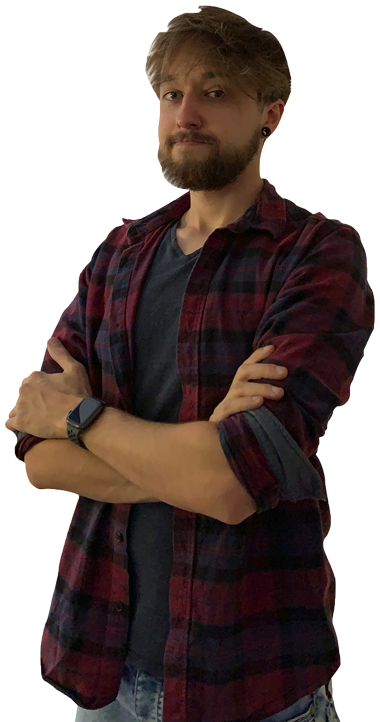
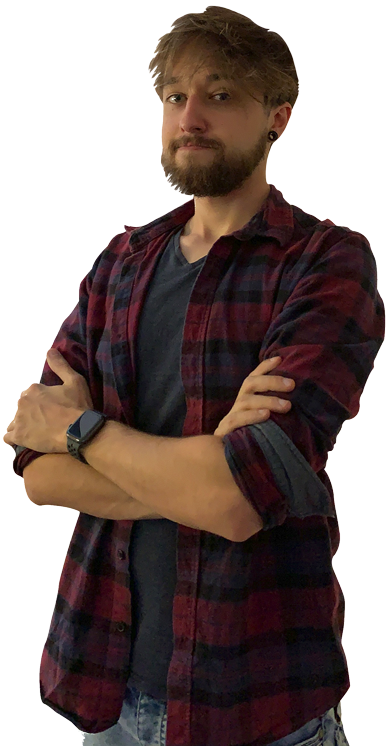
[TASK] deal with it

diff --git a/html/assets/scss/main.min.css b/html/assets/scss/main.min.css
@@ -1,3 +1,3 @@
-button{border:0;outline:0;cursor:pointer}button:focus{border:0;outline:0}button:hover *{cursor:url("../images/icons/pointer-clickable.png"),auto}.button-primary{background:#2CE59E;box-shadow:0 6px 30px -10px #2CE59E;padding:8px 20px;border-radius:3px;color:#fff;transition:ease-in-out .2s all}.button-primary:hover{color:#fff;background:#397B82;box-shadow:0 3px 5px -5px #397B82}.scroll-top-container{justify-content:center;position:relative;transform:translateY(15px)}.scroll-top-container span{border-radius:50%;border:10px solid white}.scroll-top-container span .scroll-top{border-radius:50%;display:inline-block;background:#fff;text-align:center;transition:box-shadow ease-in-out 0.2s}.scroll-top-container span .scroll-top img{height:25px;width:25px;margin:20px}.scroll-top-container span .scroll-top:hover{box-shadow:0 5px 10px rgba(154,160,185,0.025),0 15px 40px rgba(166,173,201,0.1)}*{font-family:"univia-pro", sans-serif;cursor:url("../images/icons/pointer.png"),auto}*::selection{background:#2CE59E;color:#251438}body{margin:0;color:#251438;scroll-behavior:smooth;font-size:15px}h2{margin-bottom:30px;cursor:text}h3{margin-bottom:20px;cursor:text}#references h2{margin-bottom:8px}strong{cursor:text}strong+h2{margin-bottom:0}p{line-height:25px;cursor:text}a{color:#2CE59E;text-decoration:none;transition:0.2s ease color}a:hover{color:#397B82;text-decoration:none;cursor:url("../images/icons/pointer-clickable.png"),auto}a:hover *{cursor:url("../images/icons/pointer-clickable.png"),auto}#legal-protection{padding-top:50px;padding-bottom:50px}.shadow-light{box-shadow:0 5px 10px rgba(154,160,185,0.025),0 15px 40px rgba(166,173,201,0.1)}.shadow-dark{box-shadow:0 5px 10px rgba(154,160,185,0.05),0 15px 40px rgba(166,173,201,0.2)}.text-left{text-align:left}.text-center{text-align:center}.text-right{text-align:right}.bullets-background{background-position:0 0;background-size:20px 20px}.bullets-background.violet{background-image:radial-gradient(#452469 15%, #4A2770 20%)}.bullets-background.grey{background-image:radial-gradient(#F6F6F6 15%, #fff 20%)}label{margin:0}.tablet-divider{display:initial}.desktop-divider{display:none}@media (min-width: 768px){.tablet-divider{display:none}.desktop-divider{display:initial}}nav{background-color:#fff;border-top:3px solid #2CE59E;box-shadow:1px 1px 4px 0 rgba(0,0,0,0.1);position:fixed;width:100%;height:61px;z-index:3;top:0}nav .logo{display:inline-block;float:left;padding:14px 20px;text-decoration:none}nav .logo img{height:30px;padding:0}nav .menu{clear:both;max-height:0;transition:max-height .2s ease-out;transform:translateY(-5px)}nav .menu-icon{cursor:pointer;display:inline-block;padding:28px 20px;position:relative;user-select:none;right:0px;position:absolute}nav .menu-icon .navicon{background:#333;display:block;height:2px;position:relative;transition:background .2s ease-out;width:18px}nav .menu-icon .navicon:before,nav .menu-icon .navicon:after{background:#333;content:'';display:block;height:100%;position:absolute;transition:all .2s ease-out;width:100%}nav .menu-icon .navicon:before{top:5px}nav .menu-icon .navicon:after{top:-5px}nav .menu-btn{display:none}nav .menu-btn:checked ~ .menu{max-height:350px}nav .menu-btn:checked ~ .menu-icon .navicon{background:transparent}nav .menu-btn:checked ~ .menu-icon .navicon:before{transform:rotate(-45deg)}nav .menu-btn:checked ~ .menu-icon .navicon:after{transform:rotate(45deg)}nav .menu-btn:checked ~ .menu-icon:not(.steps) .navicon:before,nav .menu-btn:checked ~ .menu-icon:not(.steps) .navicon:after{top:0}nav ul{margin:0;padding:0;list-style:none;overflow:hidden;background-color:#fff}nav ul li a{display:block;padding:17px 20px;text-decoration:none;color:#4A2770}nav ul li a:hover,nav ul li a .menu-btn:hover{color:#2CE59E}@media (min-width: 768px){nav{top:auto;position:relative}nav .nav-container{max-width:720px;margin:0 auto}nav li{float:left}nav li a{padding:20px 30px}nav .menu{display:flex;clear:none;max-height:none;width:100%;justify-content:space-between;margin:0 auto;transform:translateY(0)}nav .menu-icon{display:none}nav .logo{display:none}nav.sticky{position:sticky;top:0}nav.sticky .logo{display:inline-block}nav.sticky .menu{width:auto;justify-content:flex-end}}@media (min-width: 992px){nav .nav-container{max-width:960px}}@media (min-width: 1200px){nav .nav-container{max-width:1140px}}.social-media a{display:inline-block;width:36px;height:36px;margin-right:8px}.social-media a.facebook{background:url(../images/icons/facebook_vio.svg) no-repeat center/contain}.social-media a.facebook:hover{background:url(../images/icons/facebook_vio_light.svg) no-repeat center/contain}.social-media a.linkedin{background:url(../images/icons/linkedin_vio.svg) no-repeat center/contain}.social-media a.linkedin:hover{background:url(../images/icons/linkedin_vio_light.svg) no-repeat center/contain}.social-media a.twitter{background:url(../images/icons/twitter_vio.svg) no-repeat center/contain}.social-media a.twitter:hover{background:url(../images/icons/twitter_vio_light.svg) no-repeat center/contain}.social-media a.dribble{background:url(../images/icons/dribble_vio.svg) no-repeat center/contain}.social-media a.dribble:hover{background:url(../images/icons/dribble_vio_light.svg) no-repeat center/contain}.social-media a:first-of-type img{margin-left:0}.social-media a img{width:36px;height:36px;display:inline-block;transition:0.2s ease filter}.social-media a img:hover{filter:brightness(0.5) hue-rotate(65deg)}.social-media a:last-of-type{margin-right:0}@media (min-width: 768px){header .social-media{margin-top:40px;position:relative;width:100%;display:flex;justify-content:flex-end}}header{position:relative;display:flex;min-height:600px;margin-top:58px;background:url("../images/geometry_background.png") repeat 0 0;animation:slide 50s linear infinite}header:before{content:'';position:absolute;top:0;bottom:0;width:100%;background:url(../images/geometry_foreground.png) repeat 0 0;animation:slide 15s linear infinite}header .row{height:100%}header .row .head-illustration{position:absolute;animation:float 3s ease-in-out infinite;max-width:100px;top:30px;left:30px}header .row .header-info{display:flex;justify-content:center;flex-direction:column;align-items:baseline;padding:0 30px;margin-top:30px}header .row .header-info .logo{margin-bottom:50px;max-width:160px;margin-top:-30px;margin-left:130px}header .row .header-info p{margin-bottom:32px}header .row .header-info .button-primary{margin-right:28px;margin-bottom:20px;display:inline-block}header .row .header-info .contact-link{margin-bottom:40px;display:inline-block}header .social-media{margin-bottom:50px}@media (min-width: 768px){header{margin-top:0}header .row .head-illustration{position:absolute;top:0px;left:-30px;width:106%;max-width:530px;opacity:1;display:inline-block}header .row .header-info{padding:0 60px}header .row .header-info .logo{margin-bottom:30px;max-width:270px;margin-top:0;margin-left:0}header .row .header-info .contact-link{margin-bottom:0;display:inline-block}}@keyframes float{0%{transform:translatey(0px)}50%{transform:translatey(-20px)}100%{transform:translatey(0px)}}@keyframes slide{from{background-position:0 0}to{background-position:0 -800px}}#service{padding:100px 0 40px 0}#service .first-text{margin-bottom:40px}#service .service-item{text-align:center;margin-bottom:40px;align-items:center;flex-direction:column;display:flex}#service .service-item strong{display:block;margin-bottom:16px}#service .service-item img{width:40px;height:40px}#service .service-item.hosting img{margin-bottom:20px}#service .service-item.hosting .mittwald{width:auto;height:auto;max-width:120px}@media (min-width: 768px){#service .first-text{margin-bottom:80px}#service .service-item strong{margin-bottom:20px}#service .service-item img{width:60px;height:60px}}#about-us{padding:100px 0 40px 0;background:#F6F6F6 url("../images/geometry.png") repeat 0 0;animation:slide 20s linear infinite}#about-us svg{max-width:100%}#about-us .about-text-wrapper{background:#ffffff;padding:30px 30px;border-radius:4px;border-bottom:4px solid #4A2770;box-shadow:0 1px 4px 0 rgba(0,0,0,0.1);margin-bottom:100px}#about-us img{width:100%}#about-us .img-rbes{background-image:url(https://yeets.de/assets/images/Rene_Alpha_440x720px.png);background-color:#397B82}#about-us .img-rbes:before{content:"";display:block;background:#4A2770;width:100px;height:10px;position:absolute;bottom:-10px;background-blend-mode:luminosity;right:6px}#about-us .img-rbes:after{content:"";display:block;background:#4A2770;width:10px;height:100px;position:absolute;bottom:-10px;background-blend-mode:luminosity;right:6px}#about-us .foto-wrapper .row{margin-bottom:100px}#about-us .foto-wrapper .img-rbes,#about-us .foto-wrapper .img-yhew{width:128px;height:192px;background-size:contain;background-blend-mode:luminosity}#about-us .foto-wrapper .yannik:hover .img-yhew{width:152px;height:216px;margin-top:-12px;margin-left:-12px}#about-us .foto-wrapper .yannik:hover .img-yhew img{width:142%}#about-us .foto-wrapper .yannik:hover .img-yhew:after{opacity:0}#about-us .foto-wrapper .yannik .img-yhew{overflow:hidden;transition:all .2s ease-in-out}#about-us .foto-wrapper .yannik .img-yhew:before{content:"";display:block;position:absolute;width:100px;height:100px;bottom:-12px;left:3px;background:#397B82}#about-us .foto-wrapper .yannik .img-yhew img{width:185%;position:relative;left:50%;transform:translateX(-50%);background:#4A2770;transition:all .2s ease-in-out}#about-us .foto-wrapper .fixed-size{width:158px;height:192px}#about-us .foto-wrapper .personal-description{display:flex;flex-direction:column;justify-content:flex-end}@media (min-width: 768px){#about-us .about-text-wrapper{padding:50px 50px;margin-bottom:0}}#references{padding:100px 0}#references:before{height:620px;content:'';width:50%;margin-top:130px;position:absolute;background-image:radial-gradient(#F6F6F6 15%, #fff 20%);background-position:0 0;right:0;background-size:20px 20px}#references .cardslider{height:800px}#references .cardslider li[class*="cardslider__card--index-"]{background:transparent}#references .cardslider .cardslider__dot-btn{border-color:#E2E2E2}#references .cardslider .cardslider__dot--active .cardslider__dot-btn{border:2px solid #2CE59E}#references .references-item{width:280px;background:#4A2770;color:#fff;border-radius:6px;padding:30px;transform-style:preserve-3d;transform:perspective(300px)}#references .references-item img{width:250px;border-radius:3px;margin-bottom:40px;margin-top:16px;margin-left:12px;transform:translateZ(20px)}#references .references-item p{margin-bottom:40px}#references .references-item a{transform:translateZ(20px);display:inline-block;margin-bottom:16px}#references .yeetboy-wrapper{display:flex;flex-direction:column;justify-content:flex-end}#references .proud-yeetboy{width:100%}#references .proud-yeetboy-head{width:100%;position:absolute;left:0;transform:translateY(20px) translate3d(0, 0, 0) rotate(0.1deg) !important;animation:float 2s ease-in-out infinite;-webkit-font-smoothing:antialiased;backface-visibility:hidden}@media (min-width: 768px){#references .references-item{width:400px}#references .references-item img{width:370px}}@keyframes float{0%{transform:translateY(20px)}50%{transform:translatey(24px)}100%{transform:translateY(20px)}}#expertise{padding:100px 0;background-image:linear-gradient(141deg, #452469, #532699);color:#fff}#expertise img{width:110px}#expertise .hearteyes,#expertise .handshake{margin-top:20px;margin-bottom:60px}#expertise .handshake{order:1}#expertise .handshake img{width:150px}#expertise .col-sm-5{text-align:center}@media (min-width: 768px){#expertise img{margin-left:30px;margin-bottom:50px;text-align:left}#expertise .handshake{order:initial}#expertise .handshake img{margin-right:30px;text-align:right;order:initial}#expertise .hearteyes,#expertise .handshake{margin-top:0;margin-bottom:0}}#contact{padding:100px 0}#contact::before{height:200px;content:'';width:100%;margin-top:130px;position:absolute;background-image:radial-gradient(#F6F6F6 15%, #fff 20%);background-position:0 0;background-size:20px 20px}#contact .row{margin:0}#contact .row .contact-container{background:#fff;background-image:linear-gradient(141deg, rgba(255,255,255,0.6), rgba(246,246,246,0.6));-webkit-backdrop-filter:blur(10px);backdrop-filter:blur(10px);border-radius:3px;box-shadow:1px 1px 4px 0 rgba(0,0,0,0.1);padding:30px 30px}#contact .row .contact-container form{margin-top:50px}#contact .row .contact-container form h3{margin:0 15px}#contact .row .contact-container form .form-group{padding:0;margin-bottom:0}#contact .row .contact-container form .form-group label{margin:0;position:absolute;top:0px;left:12px;padding:8px 0;color:#251438;pointer-events:none;transition:.25s}#contact .row .contact-container form .form-group input{width:100%;padding:10px;color:#251438;margin-bottom:30px;border:none;border-bottom:2px solid #4A2770;outline:none;background:#F6F6F6;height:40px}#contact .row .contact-container form .form-group input:focus{border-bottom:2px solid #2CE59E}#contact .row .contact-container form .form-group input:valid ~ label,#contact .row .contact-container form .form-group input:focus ~ label{top:-28px;left:0;color:#2CE59E;font-size:12px}#contact .row .contact-container form .form-group textarea{width:100%;padding:10px;color:#251438;margin-bottom:30px;border:none;border-bottom:2px solid #4A2770;outline:none;background:#F6F6F6;min-height:60px}#contact .row .contact-container form .form-group textarea:focus{border-bottom:2px solid #2CE59E}#contact .row .contact-container form .form-group textarea:valid ~ label,#contact .row .contact-container form .form-group textarea:focus ~ label{top:-28px;left:16px;color:#2CE59E;font-size:12px}#contact .row .contact-container form .form-group:nth-last-of-type(1){margin-bottom:0}@keyframes ldio-723u9s82i0a{0%{transform:translate(-50%, -50%) rotate(0deg)}100%{transform:translate(-50%, -50%) rotate(360deg)}}#submit-btn.wait{padding:8px 40px 8px 20px}#status{display:none}#status.wait{display:inline-block;top:-6px;position:relative;left:-24px}#status.wait .ldio-723u9s82i0a div{position:absolute;width:12px;height:12px;border:2px solid #ffffff;border-top-color:transparent;border-radius:50%;animation:ldio-723u9s82i0a 1s linear infinite;box-sizing:content-box}@media (min-width: 576px){#contact .row .contact-container form .form-group{padding-right:15px;padding-left:15px}#contact .row .contact-container form .form-group label{left:27px}#contact .row .contact-container form .form-group input:valid ~ label,#contact .row .contact-container form .form-group input:focus ~ label{left:15px}}@media (min-width: 768px){#contact .row{margin:0 -15px}#contact .row .contact-container{padding:50px 60px}}#customer{background:#eee}#customer .customer-item{display:flex;align-items:center;justify-content:center}#customer .customer-item img{max-height:40px;width:100%;max-width:140px;margin:20px 0;filter:grayscale(1)}#customer .customer-item img:hover{filter:grayscale(0);transition:ease-in-out filter 0.3s}footer{color:#fff;display:flex;padding:32px 0}footer .container .row{height:100%}footer .container .row .col-sm-5 .footer-right{display:flex;flex-direction:column;justify-content:flex-end;margin-top:60px}footer .container .row .col-sm-5 .footer-right .legal-protection{margin-block-start:1em;margin-block-end:1em}footer .container .row .col-sm-5 .footer-right .legal-protection span{margin:0 4px;color:#2CE59E}@media (min-width: 768px){footer .container .row .col-sm-5{height:100%}footer .container .row .col-sm-5 .footer-right{height:100%;align-items:flex-end;margin-top:0}}body .light.cc_dialog button.cc_b_ok{color:#fff;background-color:#2CE59E;margin-right:8px}body .light.cc_dialog .cc_dialog_text{color:#fff;margin-bottom:30px}body .light.cc_dialog .cc_dialog_headline{color:#fff}body .light.cc_dialog{box-shadow:1px 1px 4px 0 rgba(0,0,0,0.1);background-color:#4A2770;color:#fff}
+button{border:0;outline:0;cursor:pointer}button:focus{border:0;outline:0}button:hover *{cursor:url("../images/icons/pointer-clickable.png"),auto}.button-primary{background:#2CE59E;box-shadow:0 6px 30px -10px #2CE59E;padding:8px 20px;border-radius:3px;color:#fff;transition:ease-in-out .2s all}.button-primary:hover{color:#fff;background:#397B82;box-shadow:0 3px 5px -5px #397B82}.scroll-top-container{justify-content:center;position:relative;transform:translateY(15px)}.scroll-top-container span{border-radius:50%;border:10px solid white}.scroll-top-container span .scroll-top{border-radius:50%;display:inline-block;background:#fff;text-align:center;transition:box-shadow ease-in-out 0.2s}.scroll-top-container span .scroll-top img{height:25px;width:25px;margin:20px}.scroll-top-container span .scroll-top:hover{box-shadow:0 5px 10px rgba(154,160,185,0.025),0 15px 40px rgba(166,173,201,0.1)}*{font-family:"univia-pro", sans-serif;cursor:url("../images/icons/pointer.png"),auto}*::selection{background:#2CE59E;color:#251438}body{margin:0;color:#251438;scroll-behavior:smooth;font-size:15px}h2{margin-bottom:30px;cursor:text}h3{margin-bottom:20px;cursor:text}#references h2{margin-bottom:8px}strong{cursor:text}strong+h2{margin-bottom:0}p{line-height:25px;cursor:text}a{color:#2CE59E;text-decoration:none;transition:0.2s ease color}a:hover{color:#397B82;text-decoration:none;cursor:url("../images/icons/pointer-clickable.png"),auto}a:hover *{cursor:url("../images/icons/pointer-clickable.png"),auto}#legal-protection{padding-top:50px;padding-bottom:50px}.shadow-light{box-shadow:0 5px 10px rgba(154,160,185,0.025),0 15px 40px rgba(166,173,201,0.1)}.shadow-dark{box-shadow:0 5px 10px rgba(154,160,185,0.05),0 15px 40px rgba(166,173,201,0.2)}.text-left{text-align:left}.text-center{text-align:center}.text-right{text-align:right}.bullets-background{background-position:0 0;background-size:20px 20px}.bullets-background.violet{background-image:radial-gradient(#452469 15%, #4A2770 20%)}.bullets-background.grey{background-image:radial-gradient(#F6F6F6 15%, #fff 20%)}label{margin:0}.tablet-divider{display:initial}.desktop-divider{display:none}@media (min-width: 768px){.tablet-divider{display:none}.desktop-divider{display:initial}}nav{background-color:rgba(255,255,255,0.85);backdrop-filter:blur(3px);border-top:3px solid #2CE59E;box-shadow:1px 1px 4px 0 rgba(0,0,0,0.1);position:fixed;width:100%;height:61px;z-index:3;top:0}nav .logo{display:inline-block;float:left;padding:14px 20px;text-decoration:none}nav .logo img{height:30px;padding:0}nav .menu{clear:both;max-height:0;transition:max-height .2s ease-out;transform:translateY(-5px)}nav .menu-icon{cursor:pointer;display:inline-block;padding:28px 20px;position:relative;user-select:none;right:0px;position:absolute}nav .menu-icon .navicon{background:#333;display:block;height:2px;position:relative;transition:background .2s ease-out;width:18px}nav .menu-icon .navicon:before,nav .menu-icon .navicon:after{background:#333;content:'';display:block;height:100%;position:absolute;transition:all .2s ease-out;width:100%}nav .menu-icon .navicon:before{top:5px}nav .menu-icon .navicon:after{top:-5px}nav .menu-btn{display:none}nav .menu-btn:checked ~ .menu{max-height:350px}nav .menu-btn:checked ~ .menu-icon .navicon{background:transparent}nav .menu-btn:checked ~ .menu-icon .navicon:before{transform:rotate(-45deg)}nav .menu-btn:checked ~ .menu-icon .navicon:after{transform:rotate(45deg)}nav .menu-btn:checked ~ .menu-icon:not(.steps) .navicon:before,nav .menu-btn:checked ~ .menu-icon:not(.steps) .navicon:after{top:0}nav ul{margin:0;padding:0;list-style:none;overflow:hidden}nav ul li a{display:block;padding:17px 20px;text-decoration:none;color:#4A2770}nav ul li a:hover,nav ul li a .menu-btn:hover{color:#2CE59E}@media (min-width: 768px){nav{top:auto;position:relative}nav .nav-container{max-width:720px;margin:0 auto}nav li{float:left}nav li a{padding:20px 30px}nav .menu{display:flex;clear:none;max-height:none;width:100%;justify-content:space-between;margin:0 auto;transform:translateY(0)}nav .menu-icon{display:none}nav .logo{display:none}nav.sticky{position:sticky;top:0}nav.sticky .logo{display:inline-block}nav.sticky .menu{width:auto;justify-content:flex-end}}@media (min-width: 992px){nav .nav-container{max-width:960px}}@media (min-width: 1200px){nav .nav-container{max-width:1140px}}.social-media a{display:inline-block;width:36px;height:36px;margin-right:8px}.social-media a.facebook{background:url(../images/icons/facebook_vio.svg) no-repeat center/contain}.social-media a.facebook:hover{background:url(../images/icons/facebook_vio_light.svg) no-repeat center/contain}.social-media a.linkedin{background:url(../images/icons/linkedin_vio.svg) no-repeat center/contain}.social-media a.linkedin:hover{background:url(../images/icons/linkedin_vio_light.svg) no-repeat center/contain}.social-media a.twitter{background:url(../images/icons/twitter_vio.svg) no-repeat center/contain}.social-media a.twitter:hover{background:url(../images/icons/twitter_vio_light.svg) no-repeat center/contain}.social-media a.dribble{background:url(../images/icons/dribble_vio.svg) no-repeat center/contain}.social-media a.dribble:hover{background:url(../images/icons/dribble_vio_light.svg) no-repeat center/contain}.social-media a:first-of-type img{margin-left:0}.social-media a img{width:36px;height:36px;display:inline-block;transition:0.2s ease filter}.social-media a img:hover{filter:brightness(0.5) hue-rotate(65deg)}.social-media a:last-of-type{margin-right:0}@media (min-width: 768px){header .social-media{margin-top:40px;position:relative;width:100%;display:flex;justify-content:flex-end}}header{position:relative;display:flex;min-height:600px;margin-top:58px;background:url("../images/geometry_background.png") repeat 0 0;animation:slide 50s linear infinite}header:before{content:'';position:absolute;top:0;bottom:0;width:100%;background:url(../images/geometry_foreground.png) repeat 0 0;animation:slide 15s linear infinite}header .row{height:100%}header .row .head-illustration{position:absolute;animation:float 3s ease-in-out infinite;max-width:100px;top:30px;left:30px}header .row .header-info{display:flex;justify-content:center;flex-direction:column;align-items:baseline;padding:0 30px;margin-top:30px}header .row .header-info .logo{margin-bottom:50px;max-width:160px;margin-top:-30px;margin-left:130px}header .row .header-info p{margin-bottom:32px}header .row .header-info .button-primary{margin-right:28px;margin-bottom:20px;display:inline-block}header .row .header-info .contact-link{margin-bottom:40px;display:inline-block}header .social-media{margin-bottom:50px}@media (min-width: 768px){header{margin-top:0}header .row .head-illustration{position:absolute;top:0px;left:-30px;width:106%;max-width:530px;opacity:1;display:inline-block}header .row .header-info{padding:0 60px}header .row .header-info .logo{margin-bottom:30px;max-width:270px;margin-top:0;margin-left:0}header .row .header-info .contact-link{margin-bottom:0;display:inline-block}}@keyframes float{0%{transform:translatey(0px)}50%{transform:translatey(-20px)}100%{transform:translatey(0px)}}@keyframes slide{from{background-position:0 0}to{background-position:0 -800px}}#service{padding:100px 0 40px 0}#service .first-text{margin-bottom:40px}#service .service-item{text-align:center;margin-bottom:40px;align-items:center;flex-direction:column;display:flex}#service .service-item strong{display:block;margin-bottom:16px}#service .service-item img{width:40px;height:40px}#service .service-item.hosting img{margin-bottom:20px}#service .service-item.hosting .mittwald{width:auto;height:auto;max-width:120px}@media (min-width: 768px){#service .first-text{margin-bottom:80px}#service .service-item strong{margin-bottom:20px}#service .service-item img{width:60px;height:60px}}#about-us{padding:100px 0 40px 0;background:#F6F6F6 url("../images/geometry.png") repeat 0 0;animation:slide 20s linear infinite}#about-us .about-text-wrapper{background:#ffffff;padding:30px 30px;border-radius:4px;border-bottom:4px solid #4A2770;box-shadow:0 1px 4px 0 rgba(0,0,0,0.1);margin-bottom:100px}#about-us .foto-wrapper .row{margin-bottom:100px}#about-us .foto-wrapper .img-rbes,#about-us .foto-wrapper .img-yhew{width:128px;height:192px}#about-us .foto-wrapper .yannik:hover .img-yhew,#about-us .foto-wrapper .yannik:hover .img-rbes,#about-us .foto-wrapper .rene:hover .img-yhew,#about-us .foto-wrapper .rene:hover .img-rbes{width:152px;height:216px;margin-top:-12px;margin-left:-12px}#about-us .foto-wrapper .yannik:hover .img-yhew img:first-of-type,#about-us .foto-wrapper .yannik:hover .img-rbes img:first-of-type,#about-us .foto-wrapper .rene:hover .img-yhew img:first-of-type,#about-us .foto-wrapper .rene:hover .img-rbes img:first-of-type{width:142%}#about-us .foto-wrapper .yannik:hover .img-yhew:after,#about-us .foto-wrapper .yannik:hover .img-rbes:after,#about-us .foto-wrapper .rene:hover .img-yhew:after,#about-us .foto-wrapper .rene:hover .img-rbes:after{transform:rotate(13deg) translateY(-200%);opacity:0}#about-us .foto-wrapper .yannik .img-yhew,#about-us .foto-wrapper .yannik .img-rbes,#about-us .foto-wrapper .rene .img-yhew,#about-us .foto-wrapper .rene .img-rbes{overflow:hidden;transition:all .2s ease-in-out}#about-us .foto-wrapper .yannik .img-yhew:before,#about-us .foto-wrapper .yannik .img-rbes:before,#about-us .foto-wrapper .rene .img-yhew:before,#about-us .foto-wrapper .rene .img-rbes:before{content:"";display:block;position:absolute;width:100px;height:100px;bottom:-12px}#about-us .foto-wrapper .yannik .img-yhew img:first-of-type,#about-us .foto-wrapper .yannik .img-rbes img:first-of-type,#about-us .foto-wrapper .rene .img-yhew img:first-of-type,#about-us .foto-wrapper .rene .img-rbes img:first-of-type{width:185%;position:relative;left:50%;transform:translateX(-50%);transition:all .2s ease-in-out}#about-us .foto-wrapper .yannik .img-yhew img:hover+img,#about-us .foto-wrapper .yannik .img-rbes img:hover+img,#about-us .foto-wrapper .rene .img-yhew img:hover+img,#about-us .foto-wrapper .rene .img-rbes img:hover+img{opacity:1;transition:all 1s linear}#about-us .foto-wrapper .yannik .img-yhew:before,#about-us .foto-wrapper .rene .img-yhew:before{background:#397B82;left:3px}#about-us .foto-wrapper .yannik .img-yhew img:first-of-type,#about-us .foto-wrapper .rene .img-yhew img:first-of-type{background:#4A2770}#about-us .foto-wrapper .yannik .img-yhew img:hover+img,#about-us .foto-wrapper .rene .img-yhew img:hover+img{transform:rotate(14deg) translateY(0px)}#about-us .foto-wrapper .yannik .img-yhew img:last-of-type,#about-us .foto-wrapper .rene .img-yhew img:last-of-type{width:86px;position:absolute;top:34%;left:22%;transform:rotate(14deg) translateY(-50px);opacity:0;transition:all .2s ease}#about-us .foto-wrapper .yannik .img-rbes:before,#about-us .foto-wrapper .rene .img-rbes:before{background:#452469;right:3px}#about-us .foto-wrapper .yannik .img-rbes img:first-of-type,#about-us .foto-wrapper .rene .img-rbes img:first-of-type{background:#397B82}#about-us .foto-wrapper .yannik .img-rbes img:hover+img,#about-us .foto-wrapper .rene .img-rbes img:hover+img{transform:translateY(0px) scale(-1, 1)}#about-us .foto-wrapper .yannik .img-rbes img:last-of-type,#about-us .foto-wrapper .rene .img-rbes img:last-of-type{width:86px;position:absolute;top:21%;left:30%;transform:translateY(-50px) scale(-1, 1);opacity:0;transition:all .2s ease}#about-us .foto-wrapper .fixed-size{width:158px;height:192px}#about-us .foto-wrapper .personal-description{display:flex;flex-direction:column;justify-content:flex-end}@media (min-width: 768px){#about-us .about-text-wrapper{padding:50px 50px;margin-bottom:0}}#references{padding:100px 0}#references:before{height:620px;content:'';width:50%;margin-top:130px;position:absolute;background-image:radial-gradient(#F6F6F6 15%, #fff 20%);background-position:0 0;right:0;background-size:20px 20px}#references .cardslider{height:800px}#references .cardslider li[class*="cardslider__card--index-"]{background:transparent}#references .cardslider .cardslider__dot-btn{border-color:#E2E2E2}#references .cardslider .cardslider__dot--active .cardslider__dot-btn{border:2px solid #2CE59E}#references .references-item{width:280px;background:#4A2770;color:#fff;border-radius:6px;padding:30px;transform-style:preserve-3d;transform:perspective(300px)}#references .references-item img{width:250px;border-radius:3px;margin-bottom:40px;margin-top:16px;margin-left:12px;transform:translateZ(20px)}#references .references-item p{margin-bottom:40px}#references .references-item a{transform:translateZ(20px);display:inline-block;margin-bottom:16px}#references .yeetboy-wrapper{display:flex;flex-direction:column;justify-content:flex-end}#references .proud-yeetboy{width:100%}#references .proud-yeetboy-head{width:100%;position:absolute;left:0;transform:translateY(20px) translate3d(0, 0, 0) rotate(0.1deg) !important;animation:float 2s ease-in-out infinite;-webkit-font-smoothing:antialiased;backface-visibility:hidden}@media (min-width: 768px){#references .references-item{width:400px}#references .references-item img{width:370px}}@keyframes float{0%{transform:translateY(20px)}50%{transform:translatey(24px)}100%{transform:translateY(20px)}}#expertise{padding:100px 0;background-image:linear-gradient(141deg, #452469, #532699);color:#fff}#expertise img{width:110px}#expertise .hearteyes,#expertise .handshake{margin-top:20px;margin-bottom:60px}#expertise .handshake{order:1}#expertise .handshake img{width:150px}#expertise .col-sm-5{text-align:center}@media (min-width: 768px){#expertise img{margin-left:30px;margin-bottom:50px;text-align:left}#expertise .handshake{order:initial}#expertise .handshake img{margin-right:30px;text-align:right;order:initial}#expertise .hearteyes,#expertise .handshake{margin-top:0;margin-bottom:0}}#contact{padding:100px 0}#contact::before{height:200px;content:'';width:100%;margin-top:130px;position:absolute;background-image:radial-gradient(#F6F6F6 15%, #fff 20%);background-position:0 0;background-size:20px 20px}#contact .row{margin:0}#contact .row .contact-container{background:#fff;background-image:linear-gradient(141deg, rgba(255,255,255,0.6), rgba(246,246,246,0.6));-webkit-backdrop-filter:blur(10px);backdrop-filter:blur(10px);border-radius:3px;box-shadow:1px 1px 4px 0 rgba(0,0,0,0.1);padding:30px 30px}#contact .row .contact-container form{margin-top:50px}#contact .row .contact-container form h3{margin:0 15px}#contact .row .contact-container form .form-group{padding:0;margin-bottom:0}#contact .row .contact-container form .form-group label{margin:0;position:absolute;top:0px;left:12px;padding:8px 0;color:#251438;pointer-events:none;transition:.25s}#contact .row .contact-container form .form-group input{width:100%;padding:10px;color:#251438;margin-bottom:30px;border:none;border-bottom:2px solid #4A2770;outline:none;background:#F6F6F6;height:40px}#contact .row .contact-container form .form-group input:focus{border-bottom:2px solid #2CE59E}#contact .row .contact-container form .form-group input:valid ~ label,#contact .row .contact-container form .form-group input:focus ~ label{top:-28px;left:0;color:#2CE59E;font-size:12px}#contact .row .contact-container form .form-group textarea{width:100%;padding:10px;color:#251438;margin-bottom:30px;border:none;border-bottom:2px solid #4A2770;outline:none;background:#F6F6F6;min-height:60px}#contact .row .contact-container form .form-group textarea:focus{border-bottom:2px solid #2CE59E}#contact .row .contact-container form .form-group textarea:valid ~ label,#contact .row .contact-container form .form-group textarea:focus ~ label{top:-28px;left:16px;color:#2CE59E;font-size:12px}#contact .row .contact-container form .form-group:nth-last-of-type(1){margin-bottom:0}@keyframes ldio-723u9s82i0a{0%{transform:translate(-50%, -50%) rotate(0deg)}100%{transform:translate(-50%, -50%) rotate(360deg)}}#submit-btn.wait{padding:8px 40px 8px 20px}#status{display:none}#status.wait{display:inline-block;top:-6px;position:relative;left:-24px}#status.wait .ldio-723u9s82i0a div{position:absolute;width:12px;height:12px;border:2px solid #ffffff;border-top-color:transparent;border-radius:50%;animation:ldio-723u9s82i0a 1s linear infinite;box-sizing:content-box}@media (min-width: 576px){#contact .row .contact-container form .form-group{padding-right:15px;padding-left:15px}#contact .row .contact-container form .form-group label{left:27px}#contact .row .contact-container form .form-group input:valid ~ label,#contact .row .contact-container form .form-group input:focus ~ label{left:15px}}@media (min-width: 768px){#contact .row{margin:0 -15px}#contact .row .contact-container{padding:50px 60px}}#customer{background:#eee}#customer .customer-item{display:flex;align-items:center;justify-content:center}#customer .customer-item img{max-height:40px;width:100%;max-width:140px;margin:20px 0;filter:grayscale(1)}#customer .customer-item img:hover{filter:grayscale(0);transition:ease-in-out filter 0.3s}footer{color:#fff;display:flex;padding:32px 0}footer .container .row{height:100%}footer .container .row .col-sm-5 .footer-right{display:flex;flex-direction:column;justify-content:flex-end;margin-top:60px}footer .container .row .col-sm-5 .footer-right .legal-protection{margin-block-start:1em;margin-block-end:1em}footer .container .row .col-sm-5 .footer-right .legal-protection span{margin:0 4px;color:#2CE59E}@media (min-width: 768px){footer .container .row .col-sm-5{height:100%}footer .container .row .col-sm-5 .footer-right{height:100%;align-items:flex-end;margin-top:0}}body .light.cc_dialog button.cc_b_ok{color:#fff;background-color:#2CE59E;margin-right:8px}body .light.cc_dialog .cc_dialog_text{color:#fff;margin-bottom:30px}body .light.cc_dialog .cc_dialog_headline{color:#fff}body .light.cc_dialog{box-shadow:1px 1px 4px 0 rgba(0,0,0,0.1);background-color:#4A2770;color:#fff}
 
 /*# sourceMappingURL=main.css.map */

diff --git a/html/assets/scss/_aboutus.scss b/html/assets/scss/_aboutus.scss
@@ -1,12 +1,7 @@
 #about-us {
     padding: 100px 0 40px 0;
     background: color(shade4) url("../images/geometry.png") repeat 0 0;
-    //background: color(shade4) url("../images/geometry2.png") repeat 0 0;
     animation: slide 20s linear infinite;
-
-    svg {
-        max-width: 100%;
-    }
 
     .about-text-wrapper {
         background: #ffffff;
@@ -17,39 +12,6 @@
         margin-bottom: 100px;
     }
 
-    img {
-        width: 100%;
-    }
-
-    .img-rbes {
-        background-image: url(https://yeets.de/assets/images/Rene_Alpha_440x720px.png);
-        background-color: color(primary2);
-
-        &:before {
-            content: "";
-            display: block;
-            background: color(secondary1);
-            width: 100px;
-            height: 10px;
-            position: absolute;
-            bottom: -10px;
-            background-blend-mode: luminosity;
-            right: 6px;
-        }
-
-        &:after {
-            content: "";
-            display: block;
-            background: color(secondary1);
-            width: 10px;
-            height: 100px;
-            position: absolute;
-            bottom: -10px;
-            background-blend-mode: luminosity;
-            right: 6px;
-        }
-    }
-
     .foto-wrapper {
         .row {
             margin-bottom: 100px;
@@ -58,33 +20,30 @@
         .img-rbes, .img-yhew {
             width: 128px;
             height: 192px;
-            background-size: contain;
-            background-blend-mode: luminosity;
         }
 
-        .yannik {
+        .yannik, .rene {
             &:hover {
-                .img-yhew {
+                .img-yhew, .img-rbes {
                     width: 152px;
                     height: 216px;
                     margin-top: -12px;
                     margin-left: -12px;
 
-                    img {
+                    img:first-of-type {
                         width: 142%;
                     }
 
                     &:after {
+                        transform: rotate(13deg) translateY(-200%);
                         opacity: 0;
                     }
                 }
             }
 
-            .img-yhew {
+            .img-yhew, .img-rbes {
                 overflow: hidden;
                 transition: all .2s ease-in-out;
-
-
 
                 &:before {
                     content: "";
@@ -93,18 +52,83 @@
                     width: 100px;
                     height: 100px;
                     bottom: -12px;
-                    left: 3px;
-                    background: color(primary2);
                 }
 
                 img {
-                    width: 185%;
-                    position: relative;
-                    left: 50%;
-                    transform: translateX(-50%);
-                    //background: linear-gradient(15deg, #4A2770 50%, rgba(74, 39, 112, 0) 80%);
-                    background: color(secondary1);
-                    transition: all .2s ease-in-out;
+                    &:first-of-type {
+                        width: 185%;
+                        position: relative;
+                        left: 50%;
+                        transform: translateX(-50%);
+                        transition: all .2s ease-in-out;
+                    }
+
+                    &:hover {
+                        + img {
+                            opacity: 1;
+                            transition: all 1s linear;
+                        }
+                    }
+                }
+
+
+            }
+
+            .img-yhew {
+                &:before {
+                    background: color(primary2);
+                    left: 3px;
+                }
+
+                img {
+                    &:first-of-type {
+                        background: color(secondary1);
+                    }
+
+                    &:hover {
+                        + img {
+                            transform: rotate(14deg) translateY(0px);
+                        }
+                    }
+
+                    &:last-of-type {
+                        width: 86px;
+                        position: absolute;
+                        top: 34%;
+                        left: 22%;
+                        transform: rotate(14deg) translateY(-50px);
+                        opacity: 0;
+                        transition: all .2s ease;
+                    }
+                }
+            }
+
+            .img-rbes {
+                &:before {
+                    background: color(secondary2);
+                    right: 3px;
+                }
+
+                img {
+                    &:first-of-type {
+                        background: color(primary2);
+                    }
+
+                    &:hover {
+                        + img {
+                            transform: translateY(0px) scale(-1, 1);
+                        }
+                    }
+
+                    &:last-of-type {
+                        width: 86px;
+                        position: absolute;
+                        top: 21%;
+                        left: 30%;
+                        transform: translateY(-50px) scale(-1, 1);
+                        opacity: 0;
+                        transition: all .2s ease;
+                    }
                 }
             }
         }

diff --git a/html/index.html b/html/index.html
@@ -154,7 +154,8 @@
                 <div class="row yannik">
                     <div class="col-5 col-sm-4 fixed-size">
                         <div class="img-yhew">
-                            <img src="assets/images/Yannik.png" alt="Yannik" title="Das ist Yannik">
+                            <img src="assets/images/Yannik.png" alt="Yannik Hewlik" title="Das ist Yannik">
+                            <img src="assets/images/dealwithit.png" alt="deal with it">
                         </div>
                     </div>
                     <div class="col-7 col-sm-8 personal-description">
@@ -163,13 +164,16 @@
                     </div>
                 </div>
 
-                <div class="row">
+                <div class="row rene">
                     <div class="col-7 col-sm-8 personal-description">
                         <strong>Rene Besicke</strong>
                         <p>Lorem ipsum dolor sit amet, consetetur sadipscing elitr, sed diam nonumy eirmod tempor invidunt ut labore et dolore magna aliquyam erat, sed diam voluptua.</p>
                     </div>
-                    <div class="col-5 col-sm-4">
-                        <div class="img-rbes"></div>
+                    <div class="col-5 col-sm-4 fixed-size">
+                        <div class="img-rbes">
+                            <img src="assets/images/Rene.png" alt="Rene Besicke" title="Das ist Rene">
+                            <img src="assets/images/dealwithit.png" alt="deal with it">
+                        </div>
                     </div>
                 </div>
             </div>

diff --git a/html/assets/scss/_navigation.scss b/html/assets/scss/_navigation.scss
@@ -1,5 +1,6 @@
   nav {
-    background-color: #fff;
+    background-color: rgba(255, 255, 255, 0.85);
+    backdrop-filter: blur(3px);
     border-top: 3px solid color(primary1);
     box-shadow: 1px 1px 4px 0 rgba(0,0,0,.1);
     position: fixed;
@@ -95,7 +96,6 @@
       padding: 0;
       list-style: none;
       overflow: hidden;
-      background-color: #fff;
 
       li {
         a {
